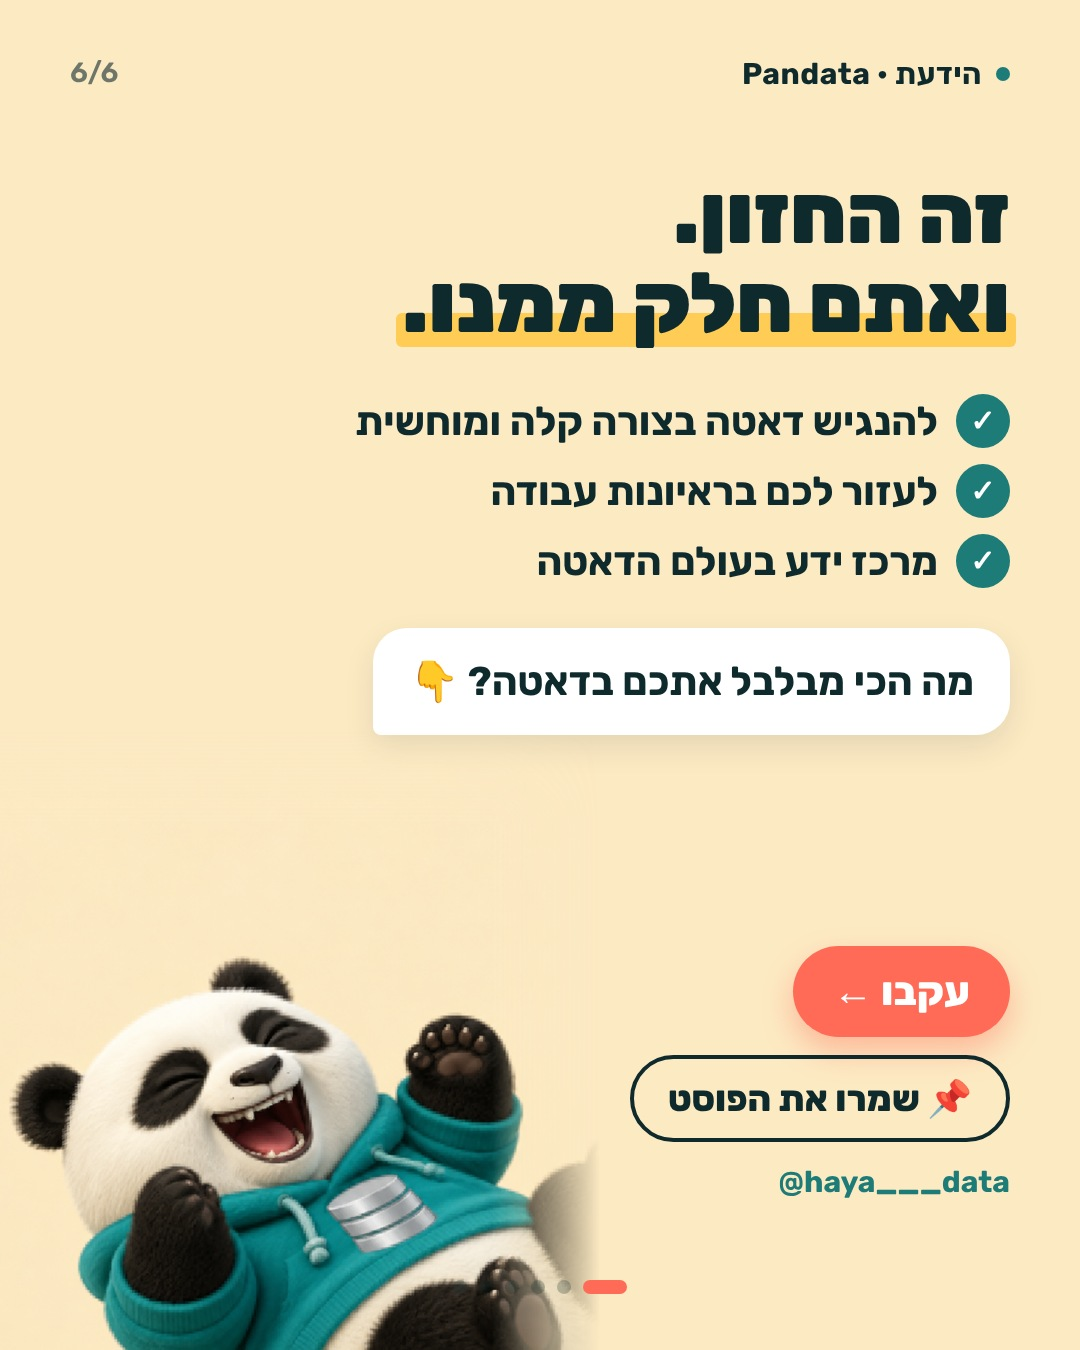
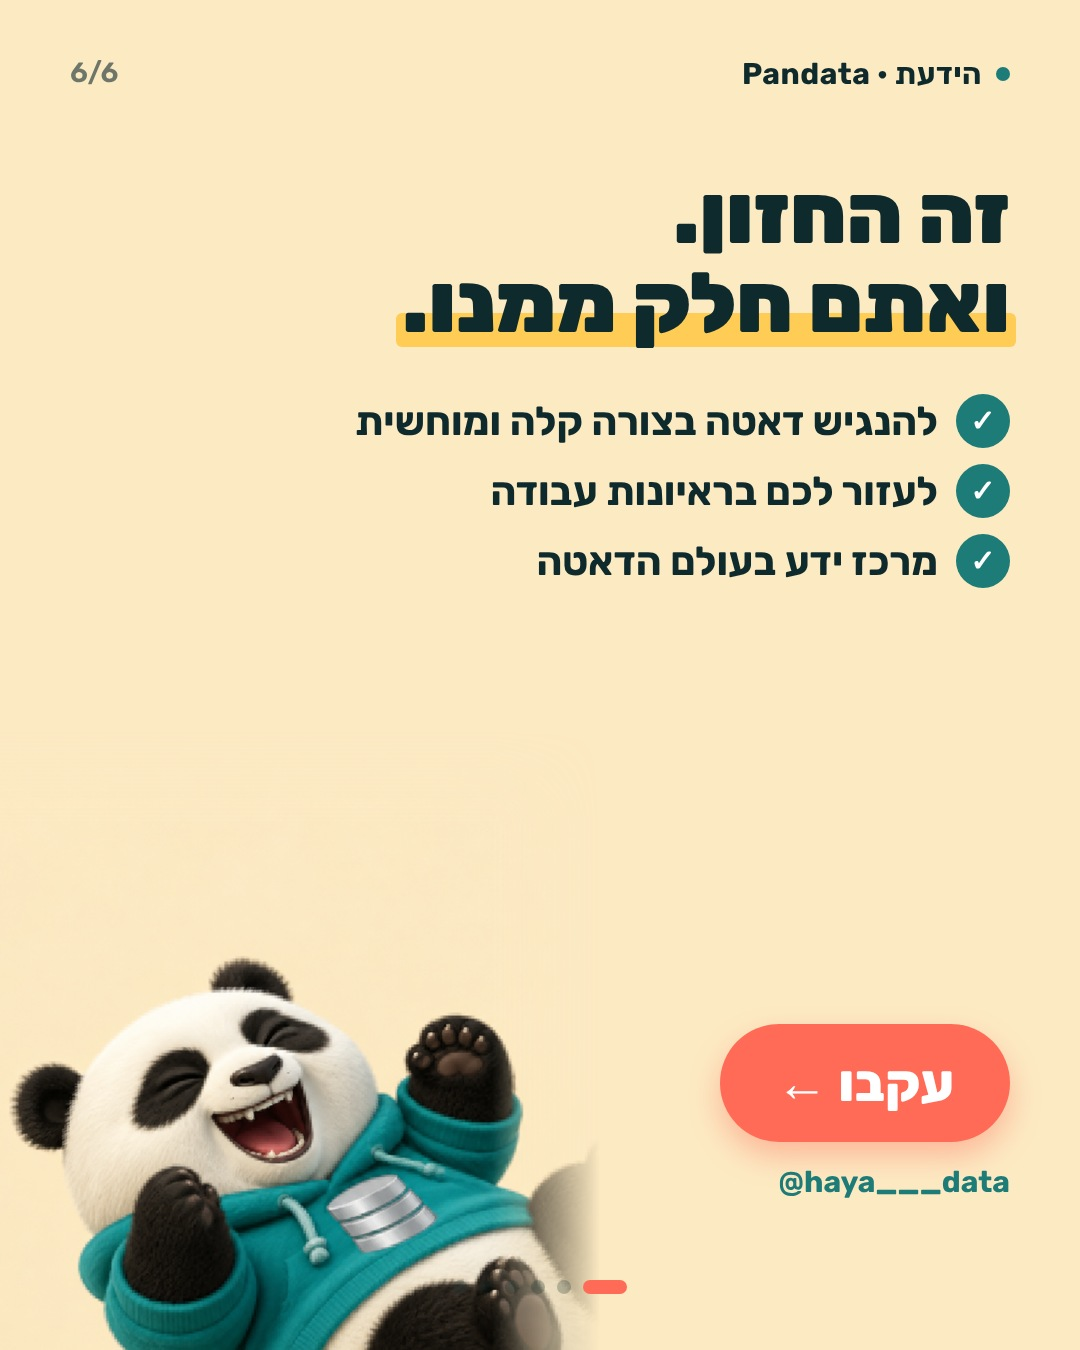
Vision carousel: key hook slide, follow-only last slide
Claude-Session: https://claude.ai/code/session_01HGsxkkLTRfJG6BnZMczhct

Changed region(s): [[0.3361, 0.4667, 0.9472, 0.56], [0.5806, 0.6844, 0.9472, 0.8711]]

diff --git a/posts/vision/slides.html b/posts/vision/slides.html
@@ -25,14 +25,13 @@ mark::after{content:"";position:absolute;inset:auto -6px 6px -6px;height:34%;bac
 h2{font-size:86px;line-height:1.08;font-weight:900}
 
 /* 1 */
-#s1 .bg{position:absolute;left:0;right:0;bottom:-60px;height:1150px;background:url(s1.jpg) center bottom/cover}
-#s1 .fade{position:absolute;inset:0;background:linear-gradient(180deg,rgba(10,36,38,1) 0%,rgba(10,36,38,1) 36%,rgba(10,36,38,.6) 48%,rgba(10,36,38,0) 62%)}
+#s1{background:linear-gradient(180deg,#e1cba4,#e3d3b1);color:var(--ink)}
+#s1 .bg{position:absolute;left:50%;bottom:0;width:838px;height:1500px;transform:translateX(-50%);background:url(key.jpg) center bottom/cover;-webkit-mask-image:linear-gradient(to right,transparent 0,#000 12%,#000 88%,transparent 100%),linear-gradient(to bottom,transparent 0,#000 20%);-webkit-mask-composite:source-in}
 #s1 .t{z-index:3}
-#s1 .pill{background:var(--mint);color:var(--deep);margin-bottom:34px}
-#s1 h1{font-size:120px;line-height:1.0;font-weight:900;letter-spacing:-1px}
-#s1 h1 em{font-style:normal;color:var(--mint)}
-#s1 h1 .big{color:var(--sun)}
-
+#s1 .pill{background:var(--deep);color:#fff;margin-bottom:30px}
+#s1 h1{font-size:118px;line-height:1.02;font-weight:900;letter-spacing:-1px}
+#s1 .sub{font-size:36px;font-weight:700;margin-top:30px;color:var(--teal)}
+#s1 .brand i{background:var(--teal)}
 /* 2 */
 #s2 p{font-size:42px;line-height:1.45;font-weight:500;margin-top:34px;max-width:900px}
 #s2 .cloud{position:absolute;bottom:120px;left:0;right:0;height:560px}
@@ -86,12 +85,13 @@ h2{font-size:86px;line-height:1.08;font-weight:900}
 #s6 .h{direction:ltr;display:block;font-size:30px;font-weight:700;margin-top:22px;color:var(--teal)}
 </style></head><body>
 
-<div class="s dark" id="s1"><div class="bg"></div><div class="fade"></div>
+<div class="s" id="s1"><div class="bg"></div>
 <div class="brand"><i></i>הידעת · Pandata</div><div class="num">1/6</div>
 <div class="t"><div class="pill">✦ החזון שלנו</div>
-<h1><span class="big">3</span> דברים<br>ש<em>פנדאטה</em><br>בונה כאן</h1></div>
+<h1>המפתח שלכם<br><mark>לעולם הדאטה</mark></h1>
+<div class="sub">להנגיש · לעזור בראיונות · מרכז ידע</div></div>
 <div class="swipe"><span>←</span>החליקו</div>
-<div class="dots"><b class="on"></b><b></b><b></b><b></b><b></b><b></b></div></div>
+<div class="dots" style="color:var(--ink)"><b class="on"></b><b></b><b></b><b></b><b></b><b></b></div></div>
 
 <div class="s cream" id="s2"><div class="brand"><i></i>הידעת · Pandata</div><div class="num">2/6</div>
 <div class="t"><h2>דאטה נמצא<br><mark>בכל מקום.</mark></h2>
@@ -139,9 +139,8 @@ h2{font-size:86px;line-height:1.08;font-weight:900}
 
 <div class="s cream" id="s6" style="background:#fceac3"><div class="brand"><i></i>הידעת · Pandata</div><div class="num">6/6</div>
 <div class="t"><h2>זה החזון.<br><mark>ואתם חלק ממנו.</mark></h2>
-<div class="recap"><div><i>✓</i>להנגיש דאטה בצורה קלה ומוחשית</div><div><i>✓</i>לעזור לכם בראיונות עבודה</div><div><i>✓</i>מרכז ידע בעולם הדאטה</div></div>
-<div class="bubble">מה הכי מבלבל אתכם בדאטה? 👇</div></div>
+<div class="recap"><div><i>✓</i>להנגיש דאטה בצורה קלה ומוחשית</div><div><i>✓</i>לעזור לכם בראיונות עבודה</div><div><i>✓</i>מרכז ידע בעולם הדאטה</div></div></div>
 <div class="laugh"></div>
-<div class="cta"><div class="btn">עקבו ←</div><br><div class="btn2">📌 שמרו את הפוסט</div><span class="h">@haya___data</span></div>
+<div class="cta"><div class="btn" style="font-size:52px;padding:28px 56px">עקבו ←</div><span class="h">@haya___data</span></div>
 <div class="dots" style="color:var(--ink)"><b></b><b></b><b></b><b></b><b></b><b class="on"></b></div></div>
 </body></html>
